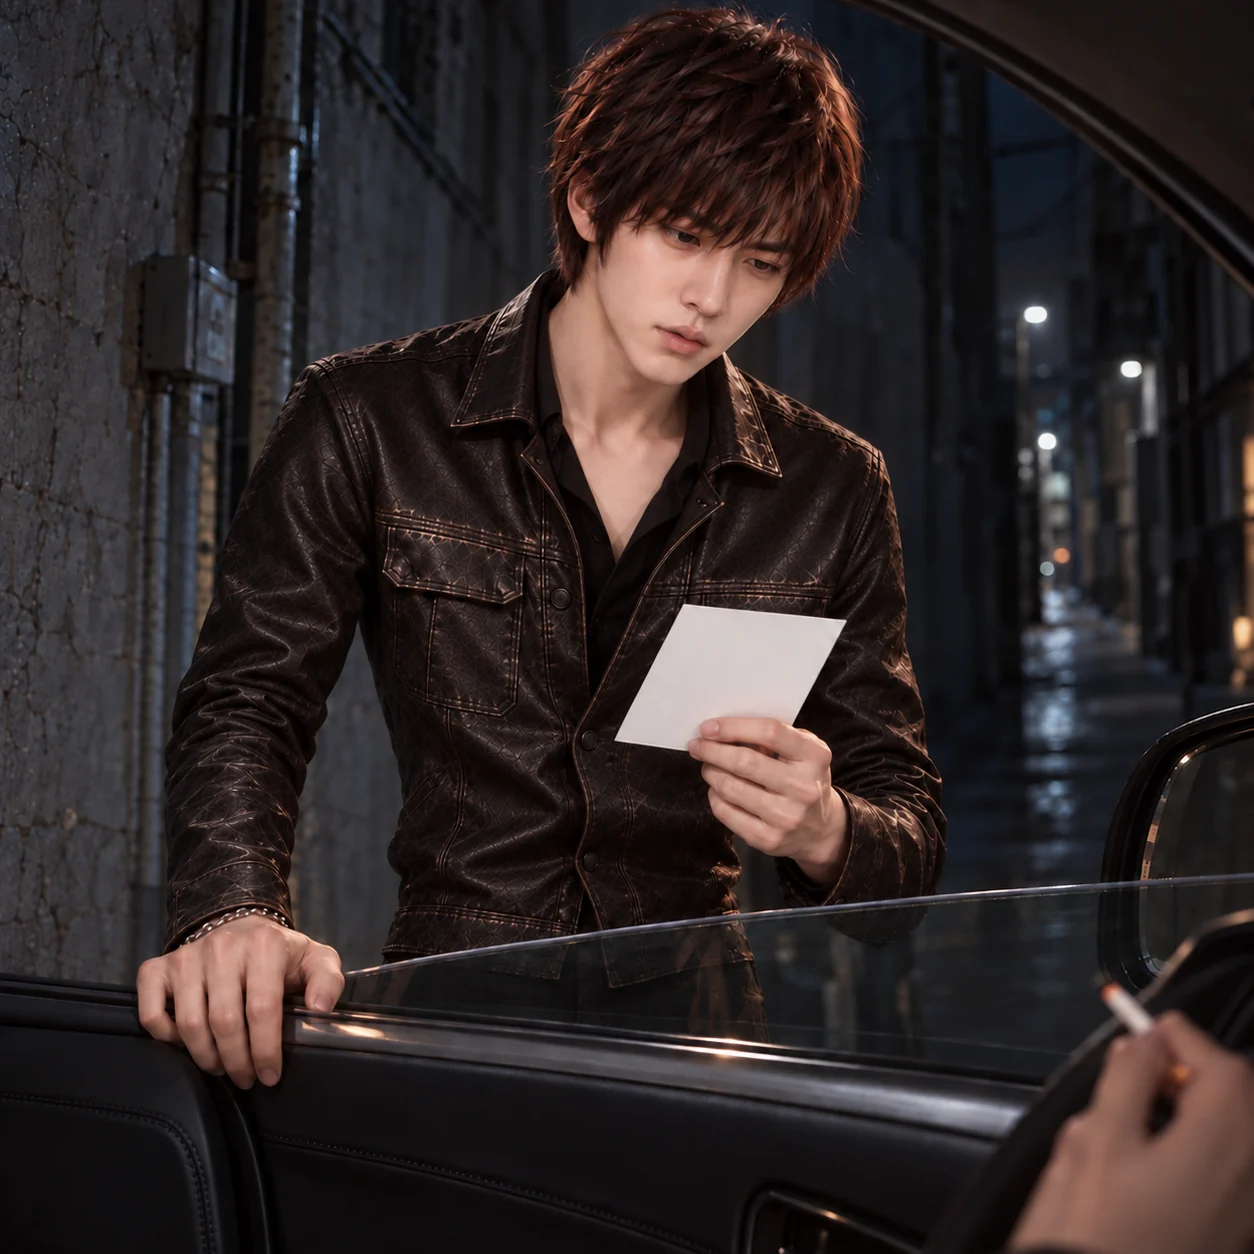
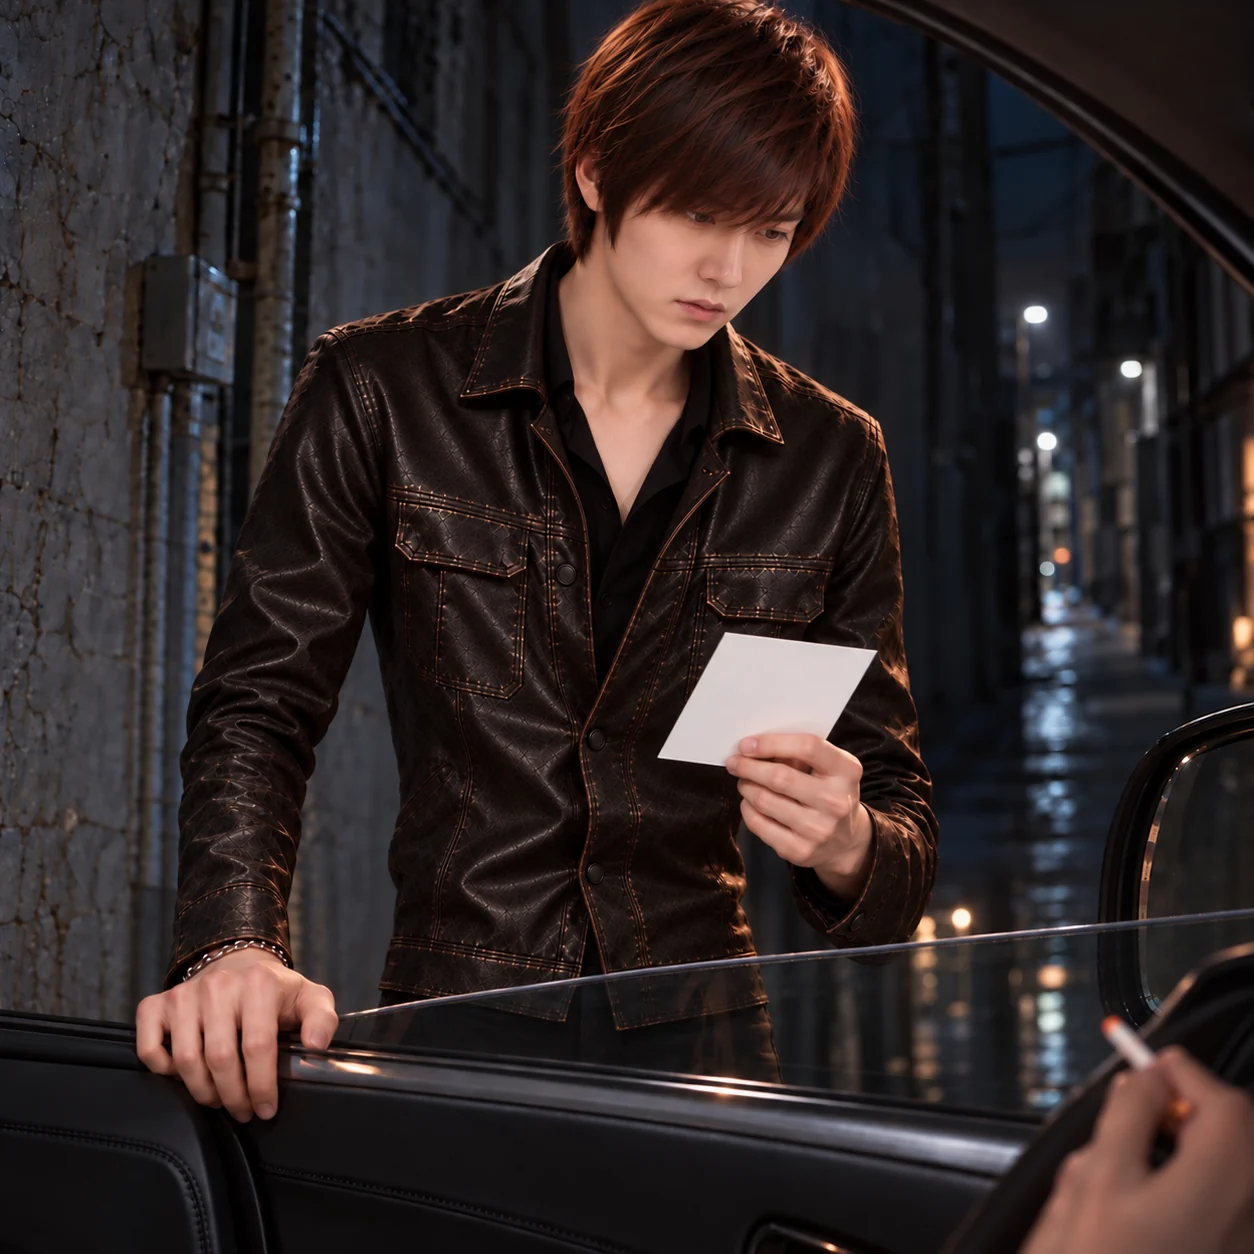
第一部第七章江澈配圖改用比例調整後的版本
Claude-Session: https://claude.ai/code/session_01GBWYe2ZCjBEsB5sU4wpFsc

Changed region(s): [[0.0, 0.0, 1.0, 1.0], [0.9641, 0.3421, 1.0, 0.5598], [0.5909, 0.9641, 0.6842, 1.0]]

diff --git a/novels/no-signboard-bar/chapter-07.html b/novels/no-signboard-bar/chapter-07.html
@@ -217,7 +217,7 @@
 <p>這一條，沒有寫進筆記裡。這一條，是我自己的。</p>
 </section>
 <section class="pov pov-jiang" data-name="江澈">
-<div class="pov-opening"><h2 class="pov-title" id="pov-4"><span>敘事視角</span>江澈</h2><a class="pov-art" href="../../assets/novels/no-signboard-bar/chapter-07-jiang-che.webp?v=20261014" target="_blank" rel="noopener" aria-label="開啟江澈插圖大圖"><img src="../../assets/novels/no-signboard-bar/chapter-07-jiang-che.webp?v=20261014" class="soft-edge" alt="巷口轉角路燈照不到的地方，江澈一手抓著黑色轎車的車門，低頭看著從車窗遞出來的照片，車裡的人指間夾著菸。" width="1254" height="1254" loading="lazy" decoding="async"><span class="pov-cap">我一直以為，那是這間店裡唯一安全的東西。</span></a><div class="pov-intro"><p>我沒跟陸曜說。</p>
+<div class="pov-opening"><h2 class="pov-title" id="pov-4"><span>敘事視角</span>江澈</h2><a class="pov-art" href="../../assets/novels/no-signboard-bar/chapter-07-jiang-che.webp?v=20261014b" target="_blank" rel="noopener" aria-label="開啟江澈插圖大圖"><img src="../../assets/novels/no-signboard-bar/chapter-07-jiang-che.webp?v=20261014b" class="soft-edge" alt="巷口轉角路燈照不到的地方，江澈一手抓著黑色轎車的車門，低頭看著從車窗遞出來的照片，車裡的人指間夾著菸。" width="1254" height="1254" loading="lazy" decoding="async"><span class="pov-cap">我一直以為，那是這間店裡唯一安全的東西。</span></a><div class="pov-intro"><p>我沒跟陸曜說。</p>
 <p>照片還壓在收銀機最底下。我想了三個晚上，結論只有一個：他知道了就會走，他一走，那台車就會跟著走，巷子就安靜了，這裡的人也就安全了。</p>
 <p>可是他一個人，撐不了多久。</p></div></div>
 <p>那就我自己去。</p>
